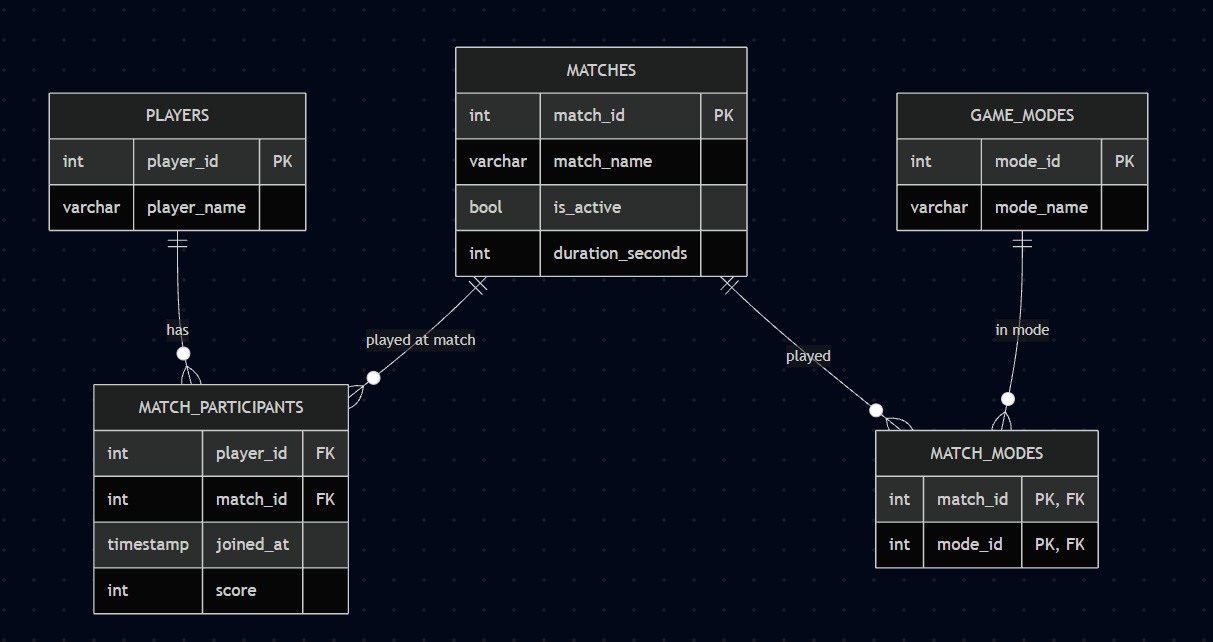
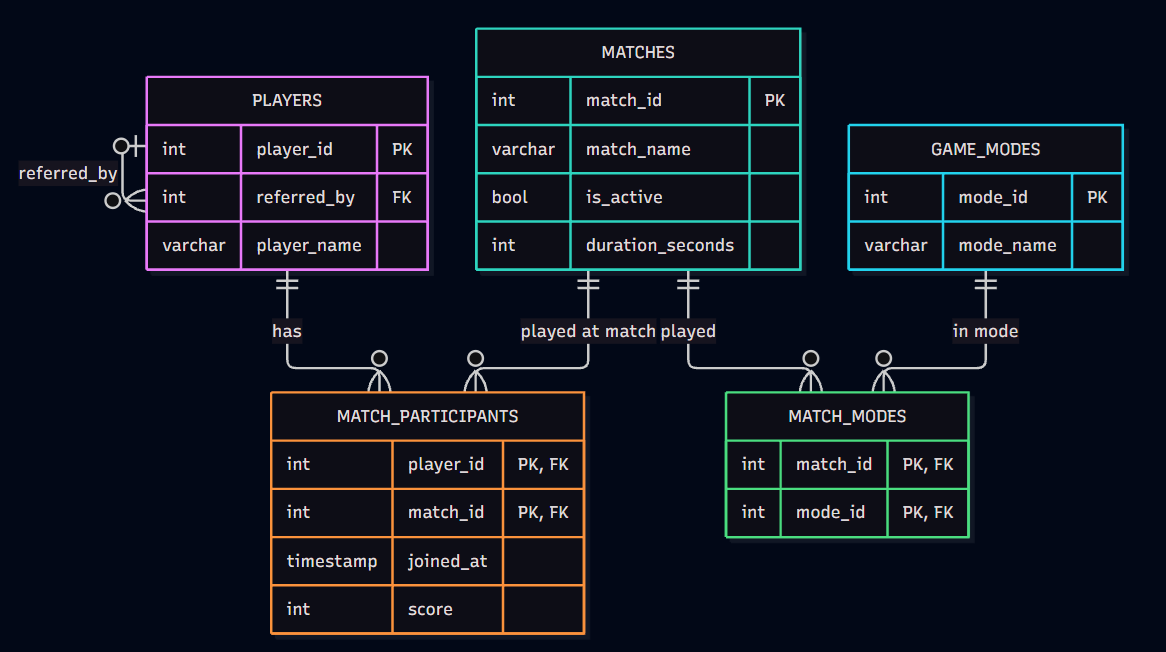
Project Assignment 2 finished.

diff --git a/analysis/unit2.md b/analysis/unit2.md
@@ -1,0 +1,80 @@
+# Unit 2 Analysis
+
+## Type mapping (Step 3)
+
+| Table | Column | Unit 1 | PostgreSQL type | Reason |
+|---|---|---|---|---|
+| players | player_id | int, PK | `INTEGER GENERATED ALWAYS AS IDENTITY` | Surrogate key generated by the database |
+| players | player_name | varchar | `VARCHAR(32)` | Short display name; 32 characters is enough for a nickname |
+| players | referred_by | *(new)* | `INTEGER NULL` | Self-referencing FK to `players(player_id)`; NULL means the player was not referred |
+| game_modes | mode_id | int, PK | `INTEGER GENERATED ALWAYS AS IDENTITY` | Surrogate key generated by the database |
+| game_modes | mode_name | varchar | `VARCHAR(50)` | Short catalog label (e.g., "Ranked", "Double Up") |
+| matches | match_id | int, PK | `INTEGER GENERATED ALWAYS AS IDENTITY` | Surrogate key generated by the database |
+| matches | match_name | varchar | `VARCHAR(100)` | Short human-readable label, slightly longer than a nickname |
+| matches | is_active | bool | `BOOLEAN` | Flag |
+| matches | duration_seconds | int | `INTEGER` (nullable) | Duration; the unit is in the column name; NULL while the match is active |
+| match_participants | player_id | int, PK, FK | `INTEGER` | FK must match the type of `players.player_id` |
+| match_participants | match_id | int, PK, FK | `INTEGER` | FK must match the type of `matches.match_id` |
+| match_participants | joined_at | timestamp | `TIMESTAMP` | Point in time |
+| match_participants | score | int | `INTEGER` | Whole-number points (LP), see below |
+| match_modes | match_id | int, PK, FK | `INTEGER` | FK must match the type of `matches.match_id` |
+| match_modes | mode_id | int, PK, FK | `INTEGER` | FK must match the type of `game_modes.mode_id` |
+
+### Key decisions
+
+- **I kept `score` as `INTEGER`, not `NUMERIC(3,2)`.** On this platform the score is a whole number of points (in the future, TFT League Points), not a fractional rating, so a decimal type would add precision that never exists in the data.
+- **`score` may be negative, so `CHECK (score >= 0)` is not needed.** A player can lose LP after a defeat, and a lower bound of 0 would reject valid data.
+- **`VARCHAR` lengths 32 / 50 / 100.** Each length is sized to its data instead of a default of 255: player nicknames are short (32), mode names are short catalog labels (50), and match names are descriptive labels that may be a little longer (100).
+- **`match_name` stays** as a human-readable label for a match. It was part of the Unit 1 schema, and removing it would bring no benefit.
+- **`players.referred_by` is new** (change from Unit 1). It is a nullable self-referencing foreign key that records which player referred another player.
+
+## Constraints table (ON DELETE)
+
+I chose the deletion behavior of each foreign key based on whether the child rows still have meaning without their parent.
+
+| Foreign key | ON DELETE | Reason |
+|---|---|---|
+| `players.referred_by` → `players(player_id)` (`fk_players_referred_by`) | `SET NULL` | The referred player's own account and history must survive when the referrer leaves; only the referral link is lost. |
+| `match_participants.player_id` → `players(player_id)` (`fk_match_participants_player`) | `RESTRICT` | Participation rows are historical telemetry and must not disappear silently when someone tries to delete a player. |
+| `match_participants.match_id` → `matches(match_id)` (`fk_match_participants_match`) | `CASCADE` | A participation row describes one specific match and has no meaning once that match is gone. |
+| `match_modes.match_id` → `matches(match_id)` (`fk_match_modes_match`) | `CASCADE` | A match-mode assignment only describes its match, so it should be removed together with the match. |
+| `match_modes.mode_id` → `game_modes(mode_id)` (`fk_match_modes_mode`) | `RESTRICT` | A mode used by recorded matches is part of their history and must not be deleted from under them. |
+
+**Deleting a referrer (`SET NULL`).** This rule governs the case where a player who invited others deletes their account or is removed by an administrator. It affects every player whose `referred_by` points to that account. With `SET NULL`, those players keep their accounts and match history, and only the information "who invited me" is cleared. With `CASCADE`, deleting one referrer would delete every player they invited, and then everyone those players invited, which could wipe out a whole chain of real accounts. With `RESTRICT`, a player could never delete their account as long as anyone they once invited still exists.
+
+**Deleting a player (`RESTRICT`, unchanged from Unit 1).** This rule governs an attempt to delete a player who has already played matches. It affects that player's rows in `match_participants`, and indirectly every statistic computed over those matches (rankings, average scores, match results). With `RESTRICT`, the delete is refused while participation rows exist, so history can only be removed on purpose. With `CASCADE`, one delete would silently remove the player's results from every match, and the remaining match records would show fewer participants than really played.
+
+**Deleting a match (`CASCADE` on `match_participants` and `match_modes`, unchanged from Unit 1).** This rule governs removing a match, for example a test match or a match that was recorded by mistake. It affects all participation rows and all mode assignments of that match. With `CASCADE`, the match and everything that only describes it is removed in one step. With `RESTRICT`, an administrator would first have to delete every participant and mode row by hand, and forgetting one would block the delete. With `SET NULL`, the rows would be left without a match, which is impossible here anyway because `match_id` is part of the primary key and cannot be NULL.
+
+**Deleting a game mode (`RESTRICT`, unchanged from Unit 1).** This rule governs removing a mode from the catalog, for example when a mode is retired from the game. It affects every match that was played in that mode. With `RESTRICT`, a mode that appears in history cannot be deleted, so old matches still show which mode they used. With `CASCADE`, deleting the mode would remove its rows from `match_modes`, and old matches would lose their mode information without any error.
+
+## CHECK constraints
+
+I moved the rules that Unit 1 only described in prose into the schema, so the database rejects invalid rows instead of relying on application code.
+
+| Constraint | Table | Invalid state it makes impossible |
+|---|---|---|
+| `chk_players_no_self_referral` | `players` | A player listed as their own referrer |
+| `chk_matches_duration_non_negative` | `matches` | A match with a negative duration |
+| `chk_matches_active_no_duration` | `matches` | An active match that already has a final duration |
+| `chk_matches_inactive_with_duration` | `matches` | A finished match without a duration |
+| `uq_game_modes_mode_name` (UNIQUE) | `game_modes` | Two catalog entries with the same mode name |
+
+**`chk_players_no_self_referral`** makes it impossible for `referred_by` to equal the player's own `player_id`. Such a row could appear through a bug in the sign-up flow (for example, filling the referrer field from the current player's own session) or through a manual update. A self-referral is meaningless and would also break referral reports, such as counting how many people each player invited. The check uses `IS DISTINCT FROM` instead of `<>` so that a NULL `referred_by` (no referrer) is still allowed.
+
+**`chk_matches_duration_non_negative`** rejects a negative `duration_seconds`. A negative value could come from a clock problem, for example when the end time is computed before the start time or the two timestamps are swapped. A negative duration would also make averages such as "average match length" wrong.
+
+**`chk_matches_active_no_duration` and `chk_matches_inactive_with_duration`** together tie `is_active` and `duration_seconds`: an active match has no duration yet, and a finished match must have one. Without them, the application could finish a match and forget to store its duration, or store a duration and forget to clear the `is_active` flag. Both cases leave the match in a contradictory state, and queries that use one column to decide about the other (for example, "finished matches" vs. "matches with a duration") would return different results. Because a new match is active by default (`DEFAULT TRUE`), a match can be created without a duration and closed later with one `UPDATE` that sets both columns.
+
+**`uq_game_modes_mode_name`** is not a CHECK, but it belongs here because it guards the catalog in the same way. Without it, the same mode (for example "Ranked") could be inserted twice, for example by running a seed script a second time. Matches would then be split between two IDs for the same mode, and any statistics grouped by mode would be wrong.
+
+## Changes from Unit 1
+
+- **New column `players.referred_by`.** A nullable, self-referencing foreign key to `players(player_id)` records which player invited another player. I placed it on `players` because a referral is a fact about a single player: each player has at most one referrer, so the relationship is one-to-many from referrer to referred players, and the "many" side holds the foreign key. A separate `referrals` table would only be needed if a player could have several referrers or if the referral itself carried extra attributes (such as a date or a reward), which is not the case on this platform. The column is nullable because most players join without a referral, and it uses `ON DELETE SET NULL` (see above).
+- **Generated surrogate keys.** `player_id`, `mode_id` and `match_id` are now `INTEGER GENERATED ALWAYS AS IDENTITY`, so the database assigns them and the application cannot insert a conflicting or made-up ID.
+- **Sized text types.** The generic `varchar` from Unit 1 became `VARCHAR(32)`, `VARCHAR(50)` and `VARCHAR(100)`, sized to each value (see Type mapping).
+- **New CHECK constraints on `matches`.** The link between `is_active` and `duration_seconds` was only described in prose in Unit 1. Now it is enforced by `chk_matches_active_no_duration` and `chk_matches_inactive_with_duration`, and `is_active` defaults to `TRUE`.
+- **Self-referral check.** `chk_players_no_self_referral` comes together with `referred_by`.
+- **Unique mode names.** `uq_game_modes_mode_name` ensures that the game-mode catalog cannot contain duplicates.
+- **Named constraints.** Every constraint has an explicit name with a `pk_`, `fk_`, `chk_` or `uq_` prefix, so error messages point directly to the rule that failed.
+- **ERD update.** In the Unit 1 ERD image, `player_id` and `match_id` in `MATCH_PARTICIPANTS` were marked only as FK, although the schema definition makes them a composite primary key. The updated diagram marks them as PK, FK and adds `referred_by` to `PLAYERS` with its self-relationship (zero-or-one referrer to zero-or-many referred players).

diff --git a/README.md b/README.md
@@ -14,6 +14,31 @@ The database should support questions such as which players participated in a pa
 
 The relational design separates players, matches, participation events, game-mode categories, and match-mode associations so that each fact is stored in one appropriate location.
 
+## Schema
+
+The full DDL is in [schema/schema.sql](schema/schema.sql) (PostgreSQL 14+).
+Run it in PostgreSQL Shell:
+```
+\i schema/schema.sql
+```
+It runs without errors twice in a row (see [screenshots](<screenshots/Project Assignment 2/>)).
+
+| Table | What it stores |
+|---|---|
+| players | one row per player; `referred_by` points to the player who invited them |
+| game_modes | list of modes (Ranked, Double Up…), names are unique |
+| matches | one row per match; active flag and duration |
+| match_participants | which player played in which match, when they joined, their score |
+| match_modes | which modes a match was played in |
+
+**Design decisions worth noting**
+- Junction tables use composite primary keys (player_id, match_id) and (match_id, mode_id) instead of a new id.
+- Deleting a match cascades to its participants and modes; deleting a player or a mode that is in use is blocked (RESTRICT).
+- `referred_by` is a self-referencing FK; if the referrer is deleted it becomes NULL.
+- CHECK constraints: no self-referral, no negative duration, a finished match must have a duration, an active one must not.
+
+Full reasoning: [analysis/unit2.md](analysis/unit2.md).
+
 ## Entity Relationship Diagram
 
 ![Game Telemetry ERD](schema/erd.png)

diff --git a/schema/schema-definition.md b/schema/schema-definition.md
@@ -4,6 +4,7 @@
 | type | name | constraints |
 |------------|------------|------------|
 | int | player_id | PK |
+| int | referred_by | FK -> Players(player_id) |
 | varchar | player_name | NOT NULL |
 
 Primary key: **player_id**
@@ -49,6 +50,7 @@ Primary key: **(match_id, mode_id)**
 erDiagram
     PLAYERS {
         int player_id PK
+        int referred_by FK
         varchar player_name
     }
     MATCHES {
@@ -72,6 +74,7 @@ erDiagram
         int mode_id "PK, FK"
     }
     PLAYERS ||--o{ MATCH_PARTICIPANTS : has
+    PLAYERS |o--o{ PLAYERS : "referred_by"
     MATCHES ||--o{ MATCH_PARTICIPANTS : "played at match"
     MATCHES ||--o{ MATCH_MODES : "played"
     GAME_MODES ||--o{ MATCH_MODES : "in mode"
